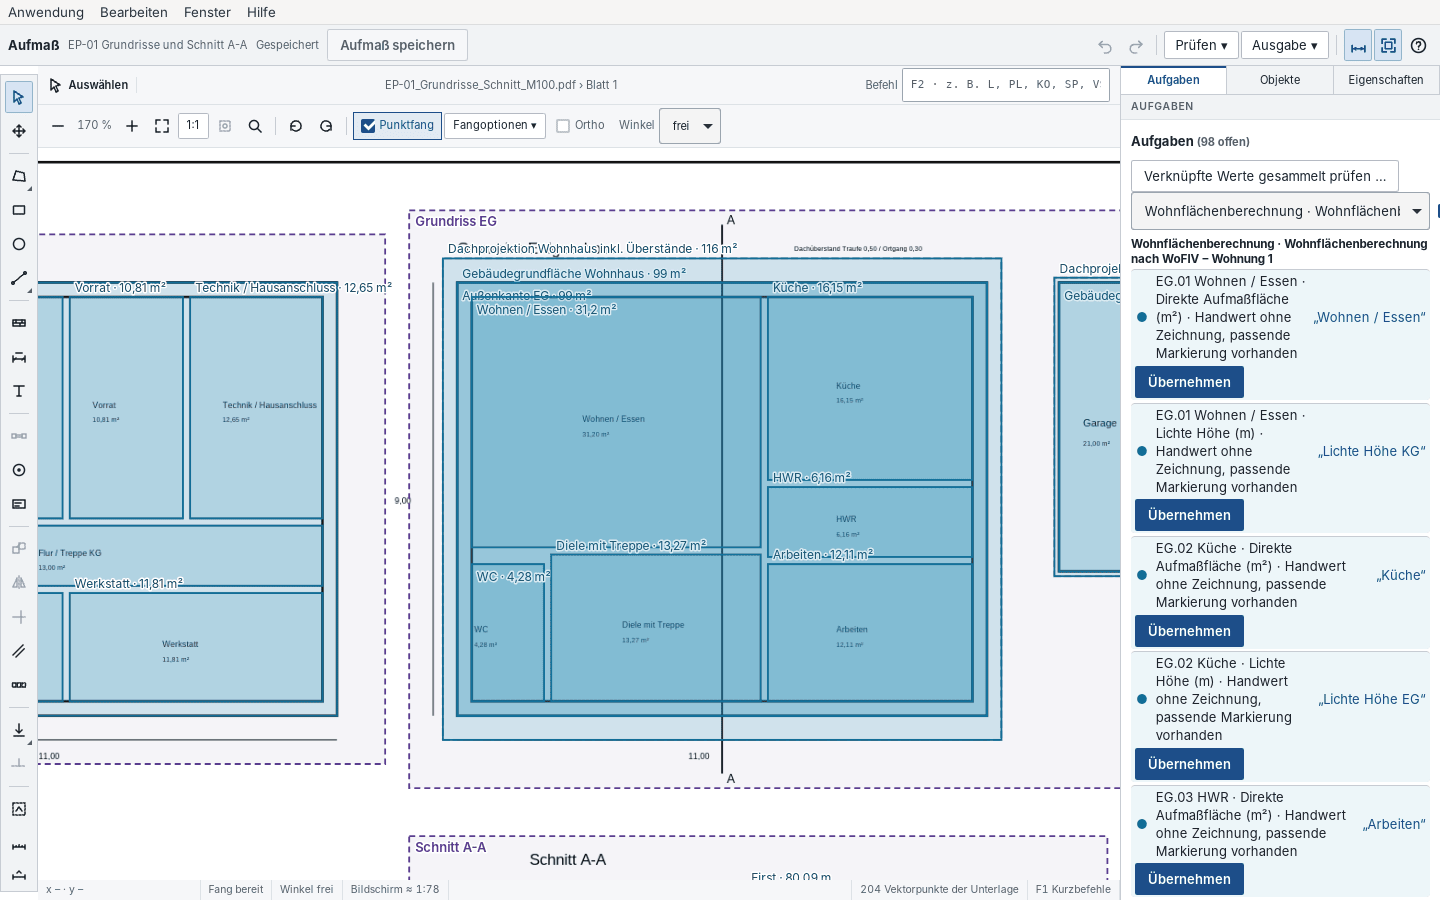
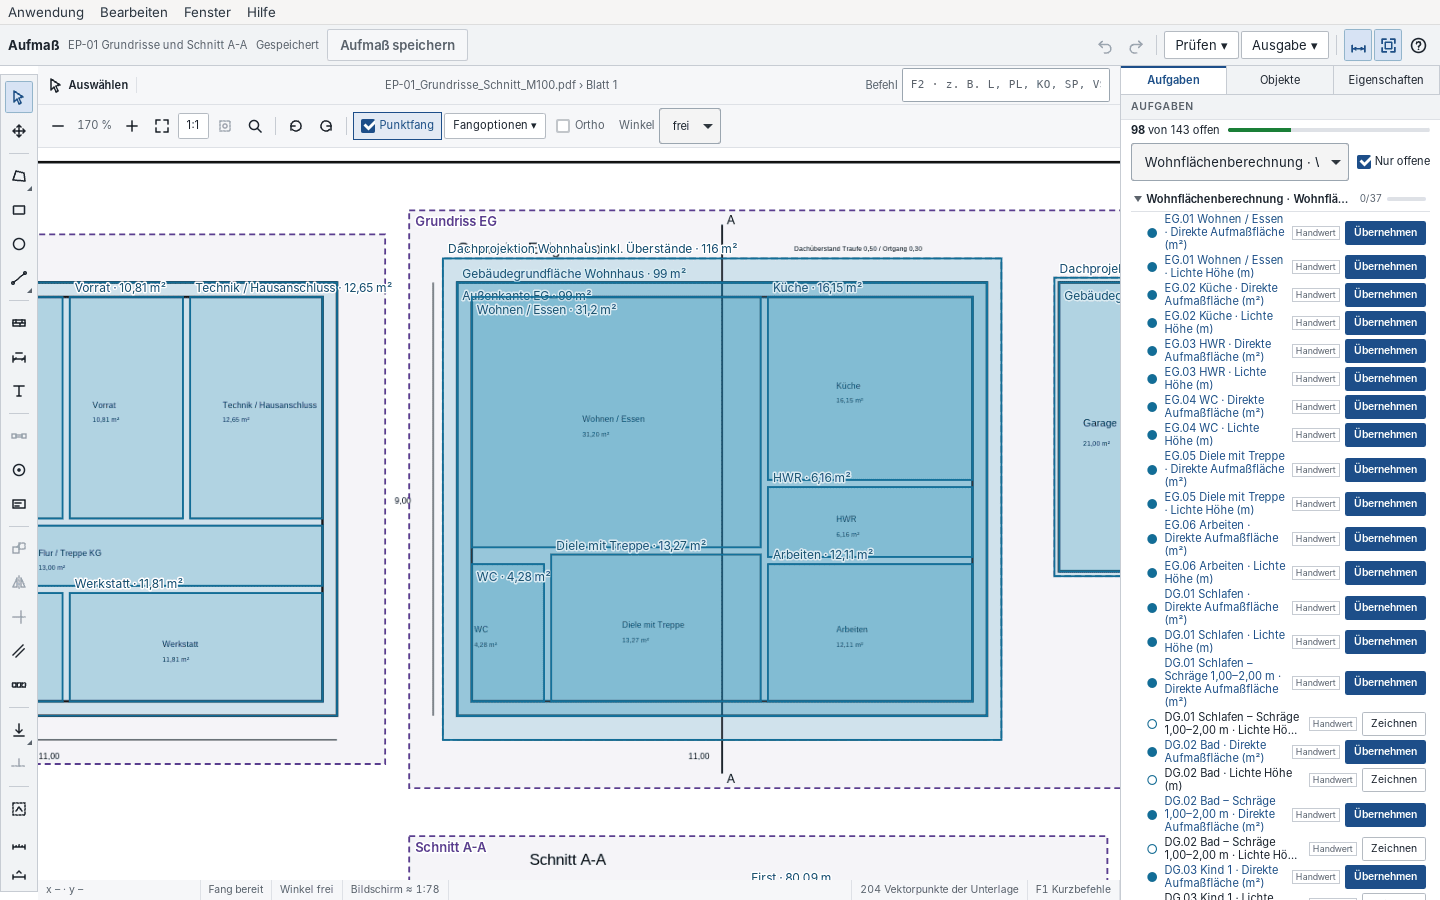
Zeicheneditor: Aufgaben kompakt mit Fortschritt je Gruppe
Jede Aufgabe steht in einer Zeile; Erläuterungen erscheinen als Tooltip,
ein Klick auf den Titel zeigt die passende oder verknüpfte Markierung.
Gruppen zeigen ihren Fortschritt und lassen sich zuklappen, oben steht der
Gesamtstand.

Claude-Session: https://claude.ai/code/session_01292Y8gDm8pi6EMJRAxpPjM

Changed region(s): [[0.7812, 0.1244, 1.0, 1.0]]

diff --git a/apps/desktop/src/lib/planaufmass/Planaufgaben.svelte b/apps/desktop/src/lib/planaufmass/Planaufgaben.svelte
@@ -30,7 +30,7 @@
     onzeichnen: (a: Planaufgabe) => void; onwaehlen: (markierung: string) => void;
   } = $props();
   let aufgaben = $state<Planaufgabe[]>([]), fehler = $state(""), meldung = $state(""), busy = $state("");
-  let filter = $state(""), nurOffen = $state(true);
+  let filter = $state(""), nurOffen = $state(true), zu = $state<Record<string, boolean>>({});
   let generation = 0;
   function laden(snapshot = JSON.stringify(plan)) {
     const n = ++generation;
@@ -159,34 +159,40 @@
 <AbgleichDialog a={abgleich}/>
 
 <section class="aufgaben" aria-label="Aufmaß-Aufgaben">
-  <h3>Aufgaben <span class="meta">({offen} offen)</span></h3>
-  {#if aufgaben.some(a=>a.gebunden)}<button type="button" class="sekundaer" disabled={!darf||!gespeichert||!!busy} onclick={()=>void gesammeltPruefen()}>Verknüpfte Werte gesammelt prüfen …</button>{/if}
   {#if !aufgaben.length}<p class="meta">Keine Zielfelder: zuerst unter Grundlagen → Flurstücke ein Flurstück, unter Grundlagen → Gebäude / Geschosse ein Gebäude, ein Raumbuch oder eine Fachberechnung mit Positionen speichern oder im Abstandsflächenplan eine manuelle Wand anlegen.</p>
   {:else}
+    <div class="stand" role="status"><span><strong>{offen}</strong> von {aufgaben.length} offen</span><span class="balken" aria-hidden="true"><span style={`width:${Math.round(100*(aufgaben.length-offen)/aufgaben.length)}%`}></span></span></div>
     <div class="filter">
-      <select aria-label="Aufgaben für" bind:value={filter}><option value="">Alle Flurstücke, Abzüge, Bauteile, Gebäude, Wände, Berechnungen und Raumbücher</option>{#each objekte as o}<option value={`${o.verbraucher}:${o.objekt}`}>{o.objekt_name}</option>{/each}</select>
-      <label><input type="checkbox" bind:checked={nurOffen}/>nur offene</label>
+      <select aria-label="Aufgaben für" bind:value={filter}><option value="">Alle Ziele</option>{#each objekte as o}<option value={`${o.verbraucher}:${o.objekt}`}>{o.objekt_name}</option>{/each}</select>
+      <label><input type="checkbox" bind:checked={nurOffen}/>Nur offene</label>
     </div>
     {#each gruppen as [gruppe, liste] (gruppe)}
-      <h4>{gruppe}</h4>
-      <ul>
+      {@const alle = aufgaben.filter((a) => a.gruppe === gruppe && (!filter || `${a.verbraucher}:${a.objekt}` === filter))}
+      {@const fertig = alle.filter((a) => a.gebunden).length}
+      {@const auf = !zu[gruppe]}
+      <h4><button type="button" class="gruppe" aria-expanded={auf} onclick={() => zu = { ...zu, [gruppe]: auf }}><span class="pfeil" class:auf aria-hidden="true"></span><span class="name">{gruppe}</span><span class="zahl" title={`${fertig} von ${alle.length} verknüpft`}>{fertig}/{alle.length}</span><span class="balken" aria-hidden="true"><span style={`width:${alle.length ? Math.round(100 * fertig / alle.length) : 0}%`}></span></span></button></h4>
+      {#if auf}<ul>
         {#each liste as a (`${a.verbraucher}:${a.ziel}`)}
-          <li class:erledigt={!!a.gebunden} class:bereit={!!a.markierung}>
+          {@const ziel = a.gebunden ?? a.markierung}
+          {@const tipp = [a.titel, a.gebunden ? `verknüpft mit „${name(a.gebunden)}“` : a.markierung ? `Markierung „${name(a.markierung)}“ passt` : "noch nicht gezeichnet", a.wert_vorhanden && !a.gebunden ? "Wert bisher von Hand erfasst" : "", a.hinweis ?? ""].filter(Boolean).join(" · ")}
+          <li class:erledigt={!!a.gebunden} class:bereit={!!a.markierung && !a.gebunden} title={tipp}>
             <span class="status" aria-hidden="true">{a.gebunden ? "✔" : a.markierung ? "●" : "○"}</span>
-            <span class="titel">{a.titel}{a.wert_vorhanden && !a.gebunden ? (a.markierung ? " · Handwert ohne Zeichnung, passende Markierung vorhanden" : " · manuell erfasst") : ""}</span>
-            {#if a.gebunden}<span class="meta">verknüpft mit „{name(a.gebunden)}“</span>
+            {#if ziel}<button type="button" class="titel" aria-label={`${a.titel}: „${name(ziel)}“ zeigen`} onclick={() => onwaehlen(ziel)}>{a.titel}</button>
+            {:else}<span class="titel">{a.titel}</span>{/if}
+            {#if a.wert_vorhanden && !a.gebunden}<span class="marke">Handwert</span>{/if}
+            {#if a.gebunden}<span class="meta">verknüpft</span>
             {:else if a.markierung}
-              <button type="button" class="link" onclick={() => onwaehlen(a.markierung!)}>„{name(a.markierung)}“</button>
-              {#if a.verbraucher === "abzug" || a.verbraucher === "bauteil"}<span class="meta hinweis">{a.hinweis}</span>
-              {:else}<button type="button" disabled={!darf || !gespeichert || busy !== ""} title={gespeichert ? "Markierung verknüpfen und Verbraucher speichern" : "Aufmaß zuerst speichern"} onclick={() => void uebernehmen(a)}>{busy === a.ziel ? "…" : "Übernehmen"}</button>{/if}
+              {#if a.verbraucher === "abzug" || a.verbraucher === "bauteil"}<span class="meta">erkannt</span>
+              {:else}<button type="button" class="klein" disabled={!darf || !gespeichert || busy !== ""} title={gespeichert ? "Markierung verknüpfen und Verbraucher speichern" : "Aufmaß zuerst speichern"} onclick={() => void uebernehmen(a)}>{busy === a.ziel ? "…" : "Übernehmen"}</button>{/if}
             {:else}
-              <button type="button" class="sekundaer" disabled={!darf} title={a.hinweis ?? ""} onclick={() => onzeichnen(a)}>Zeichnen</button>
-              {#if a.hinweis}<span class="meta hinweis">{a.hinweis}</span>{/if}
+              <button type="button" class="sekundaer klein" disabled={!darf} title={a.hinweis ?? "Werkzeug, Bedeutung und Zuordnung vorbelegen"} onclick={() => onzeichnen(a)}>Zeichnen</button>
             {/if}
           </li>
         {/each}
-      </ul>
+      </ul>{/if}
     {/each}
+    {#if !gruppen.length}<p class="meta">Alle Aufgaben erledigt.{nurOffen ? " „Nur offene“ abwählen, um die verknüpften zu sehen." : ""}</p>{/if}
+    {#if aufgaben.some(a=>a.gebunden)}<button type="button" class="sekundaer pruefen" disabled={!darf||!gespeichert||!!busy} onclick={()=>void gesammeltPruefen()}>Verknüpfte Werte gesammelt prüfen …</button>{/if}
     {#if !gespeichert}<p class="meta">Übernehmen ist nach dem Speichern des Aufmaßes möglich.</p>{/if}
   {/if}
   {#if fehler}<p class="fehlertext" role="alert">{fehler}</p>{/if}
@@ -194,15 +200,32 @@
 </section>
 
 <style>
-  .aufgaben h4 { margin: .5rem 0 .2rem; font-size: .9rem; }
-  .aufgaben ul { list-style: none; margin: 0; padding: 0; display: grid; gap: .2rem; }
-  .aufgaben li { display: flex; flex-wrap: wrap; gap: .3rem .5rem; align-items: center; padding: .15rem .3rem; border-radius: 4px; }
-  .aufgaben li.bereit { background: #168bb114; }
-  .aufgaben li.erledigt { opacity: .75; }
-  .status { width: 1.1em; text-align: center; color: #126d97; }
-  .erledigt .status { color: #1a7f37; }
-  .titel { flex: 1; min-width: 8rem; }
-  .hinweis { flex-basis: 100%; padding-left: 1.6em; }
+  .stand { display: flex; align-items: center; gap: .6rem; font-size: .85rem; margin: .2rem 0 .4rem; }
+  .stand .balken { flex: 1; }
+  .balken { display: block; height: 4px; background: var(--border-innen); border-radius: 2px; overflow: hidden; }
+  .balken > span { display: block; height: 100%; background: #1a7f37; }
   .filter { display: flex; gap: .6rem; align-items: center; margin-bottom: .3rem; }
+  .filter select { flex: 1; min-width: 0; }
   .filter label { display: flex; gap: .3rem; align-items: center; white-space: nowrap; font-size: .85rem; }
+  .aufgaben h4 { margin: .4rem 0 0; }
+  .gruppe { display: flex; align-items: center; gap: .4rem; width: 100%; min-height: 26px; padding: 2px 4px; border: 0; border-bottom: 1px solid var(--border-innen); background: transparent; color: var(--fg); font-size: .85rem; font-weight: 600; text-align: left; border-radius: 0; }
+  .gruppe .name { flex: 1; min-width: 0; overflow: hidden; text-overflow: ellipsis; white-space: nowrap; }
+  .gruppe .zahl { font-weight: 400; font-size: .75rem; color: var(--muted); font-variant-numeric: tabular-nums; }
+  .gruppe .balken { width: 3rem; flex: none; }
+  .pfeil { width: 0; height: 0; border-style: solid; border-width: 4px 0 4px 6px; border-color: transparent transparent transparent var(--muted); transition: transform .1s; }
+  .pfeil.auf { transform: rotate(90deg); }
+  .aufgaben ul { list-style: none; margin: 0; padding: 0; }
+  .aufgaben li { display: flex; flex-wrap: nowrap; gap: .4rem; align-items: center; min-height: 28px; padding: 1px 4px 1px 14px; border-top: 0; }
+  .aufgaben li:hover { background: var(--leiste); }
+  .aufgaben li.erledigt { opacity: .75; }
+  .status { width: 1.1em; flex: none; text-align: center; color: #126d97; }
+  .erledigt .status { color: #1a7f37; }
+  /* Höchstens zwei Zeilen: lange Titel bleiben unterscheidbar ("… Direkte Höhe" / "… Lichte Höhe"). */
+  .titel { flex: 1; min-width: 0; overflow: hidden; display: -webkit-box; -webkit-line-clamp: 2; line-clamp: 2; -webkit-box-orient: vertical; font-size: .85rem; line-height: 1.25; }
+  button.titel { min-height: 0; padding: 0; border: 0; background: transparent; color: var(--accent); font-weight: 400; text-align: left; text-decoration: underline; text-decoration-color: transparent; }
+  button.titel:hover { text-decoration-color: currentColor; }
+  .marke { flex: none; font-size: .68rem; padding: 0 3px; border: 1px solid var(--border); color: var(--muted); }
+  li .meta { flex: none; font-size: .78rem; }
+  .klein { flex: none; min-height: 24px; padding: 1px 8px; font-size: .8rem; }
+  .pruefen { margin-top: .6rem; }
 </style>

diff --git a/web/src/lib/zeicheneditor.ts b/web/src/lib/zeicheneditor.ts
@@ -20,7 +20,7 @@ export const FUNKTIONEN: Funktion[] = [
     titel: "Arbeitsplatz wie im CAD",
     bild: "ermittlung-aufmass-vollbild",
     alt: "Zeicheneditor im Vollbild mit Werkzeugleiste links, Plan in der Mitte und Paletten rechts",
-    text: "Der Plan bekommt die ganze Fläche. Werkzeuge stehen als Symbole links, Paletten für Aufgaben, Objekte und Eigenschaften rechts.",
+    text: "Der Plan bekommt die ganze Fläche. Werkzeuge stehen als Symbole links, Reiter für Aufgaben, Objekte und Eigenschaften rechts.",
     punkte: [
       "Mehrere Aufmaße und Zeichnungen als Tabs, auf Wunsch in einem eigenen Fenster auf dem zweiten Bildschirm",
       "PDF-Pläne mit Maßstab oder Zwei-Punkt-Kalibrierung, DXF mit Zeichnungseinheit und Ebenen",
@@ -34,9 +34,10 @@ export const FUNKTIONEN: Funktion[] = [
     id: "aufgaben",
     titel: "Aufgaben: was noch gezeichnet werden muss",
     bild: "editor-aufgaben",
-    alt: "Palette Aufgaben mit Räumen des Raumbuchs und den Knöpfen Zeichnen und Übernehmen",
-    text: "Die Palette Aufgaben listet jedes Ziel im Projekt, das einen Messwert braucht: Flurstücke, Abzugsflächen, Bauteile der GRZ, Gebäude, Geschosse, Räume und Positionen der Fachberechnungen.",
+    alt: "Reiter Aufgaben mit Fortschritt je Gruppe, Räumen des Raumbuchs und den Knöpfen Zeichnen und Übernehmen",
+    text: "Der Reiter Aufgaben listet jedes Ziel im Projekt, das einen Messwert braucht: Flurstücke, Abzugsflächen, Bauteile der GRZ, Gebäude, Geschosse, Räume und Positionen der Fachberechnungen.",
     punkte: [
+      "Eine Zeile je Aufgabe, Fortschritt je Gruppe, Filter „Nur offene“",
       "„Zeichnen“ stellt Werkzeug, Bedeutung und Zuordnung passend ein",
       "„Übernehmen“ setzt den Messwert ins Zielfeld und verknüpft es mit der Markierung",
       "Von Hand erfasste Werte sind gekennzeichnet, passende Markierungen werden vorgeschlagen",

diff --git a/scripts/handbuch-bilder/aufnahmen.py b/scripts/handbuch-bilder/aufnahmen.py
@@ -188,7 +188,7 @@ SZENEN = [
     ("ifc-modell-abgleich", 'await ifcModell(); await klick("Entwurf Architekt schließen","button"); await sleep(800); const p=(await window.__TAURI_INTERNALS__.invoke("projekte_auflisten")).find(x=>x.name==="Neubau Einfamilienhaus Mustermann"); const d=(await window.__TAURI_INTERNALS__.invoke("dokumente_auflisten",{projektId:p.id})).find(x=>x.file_name==="EFH-Mustermann.ifc"); await window.__TAURI_INTERNALS__.invoke("dokument_importieren",{projektId:p.id,dokumentId:d.document_id,basis:d.version,kategorie:null,pfad:IFC_ORDNER+"/v2/EFH-Mustermann.ifc"}); await klick("IFC-Modell","button"); await sleep(1500); await klick("Entwurf Architekt","section[aria-label^=IFC-Modell] button"); await sleep(4000); await klick("Neue Version","button"); await sleep(1500); await klick("Abgleichen","[aria-label=Details] button"); await sleep(3000); await aufklappen("Geändert"); ifcDetailsEnde()'),
     # Zeicheneditor (Webseite /zeicheneditor, Kapitel 5): EP-01 und die eigene
     # Zeichnung „Entwurf Erdgeschoss“ aus zeichnung_vorbereiten().
-    ("editor-aufgaben", 'await aufmassTab("EP-01"); await vollbildAn(); await klick("Aufgaben","[role=tab],button"); await waehleText("Alle Flurst", "Wohnfläche"); await klick("Einpassen"); await sleep(800); await zoomAufText("Grundriss EG", 2.0)'),
+    ("editor-aufgaben", 'await aufmassTab("EP-01"); await vollbildAn(); await klick("Aufgaben","[role=tab],button"); await waehleText("Alle Ziele", "Wohnfläche"); await klick("Einpassen"); await sleep(800); await zoomAufText("Grundriss EG", 2.0)'),
     ("editor-eigenschaften", 'await planKlick(640, 440); await klick("Eigenschaften","[role=tab],button"); await sleep(800); [...document.querySelectorAll("label")].filter(sichtbar).find(x=>txt(x).startsWith("Bezeichnung")).scrollIntoView({block:"start"}); await sleep(500)'),
     ("editor-werkzeugkiste", 'await taste("Escape"); await klick("Vorlagen für Polygon","button"); await sleep(600)'),
     ("editor-zeichnung", 'await taste("Escape"); await aufmassTab("Entwurf Erdgeschoss"); await vollbildAn(); await klick("Einpassen"); await sleep(800); await zoomAufText("Grundriss Erdgeschoss", 2.0); await klick("Objekte","[role=tab],button"); await sleep(800); [...document.querySelectorAll(".baum button[data-element=wand]")].filter(sichtbar)[2].click(); await sleep(1500)'),

diff --git a/apps/desktop/tests/planbearbeitung.py b/apps/desktop/tests/planbearbeitung.py
@@ -136,6 +136,11 @@ with sync_playwright() as p:
     scope.get_by_label("Bedeutung",exact=True).select_option("gebaeudegrundflaeche")
     scope.get_by_label("Gebäude",exact=True).select_option("7a1c0d4e-1b2c-4d5e-8f90-123456789abc")
     speichern();tab("Aufgaben")
+    # Kompakte Aufgaben: Gruppe mit Fortschritt, zuklappbar; eine Zeile je Aufgabe.
+    gruppe=scope.locator(".aufgaben button.gruppe").first
+    expect(gruppe).to_have_attribute("aria-expanded","true");expect(gruppe.locator(".zahl")).to_have_text("0/2")
+    gruppe.click();expect(scope.get_by_role("button",name="Übernehmen",exact=True)).to_have_count(0)
+    gruppe.click()
     scope.get_by_role("button",name="Übernehmen",exact=True).click()
     dialog=page.get_by_role("dialog")
     expect(dialog.get_by_role("table",name="Vorschau der Aufmaßübernahme")).to_contain_text("50 m²")

diff --git a/docs/handbuch/benutzerhandbuch/05-ermittlung.md b/docs/handbuch/benutzerhandbuch/05-ermittlung.md
@@ -100,7 +100,11 @@ auf die Markierungen.
 Der schnellste Weg führt über den Reiter **Aufgaben**: Sie listet alle Ziele
 im Projekt, die einen Messwert brauchen – Flurstücke, Abzugsflächen,
 GRZ-Bauteile, Gebäude und Geschosse, Abstandswände, Positionen der
-Fachberechnungen und Räume der Raumbücher.
+Fachberechnungen und Räume der Raumbücher. Jede Aufgabe ist ein kompakter Eintrag:
+○ noch nicht gezeichnet, ● passende Markierung vorhanden, ✔ verknüpft.
+Die Gruppen zeigen ihren Fortschritt (z. B. 3/7) und lassen sich zuklappen;
+„Nur offene“ blendet Verknüpftes aus. Erläuterungen erscheinen beim
+Überfahren der Zeile, ein Klick auf den Titel zeigt die Markierung.
 
 ![Aufgaben, gefiltert auf die Wohnflächenberechnung: Handwerte mit passender Markierung](bilder/editor-aufgaben.png)
 
